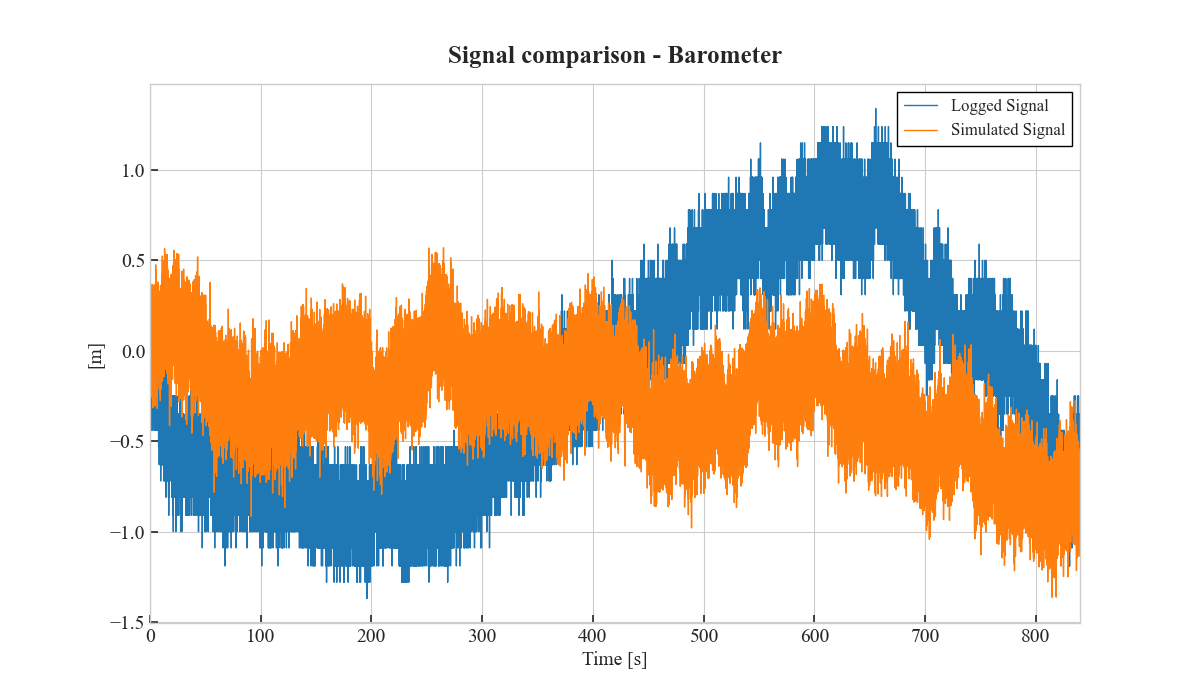
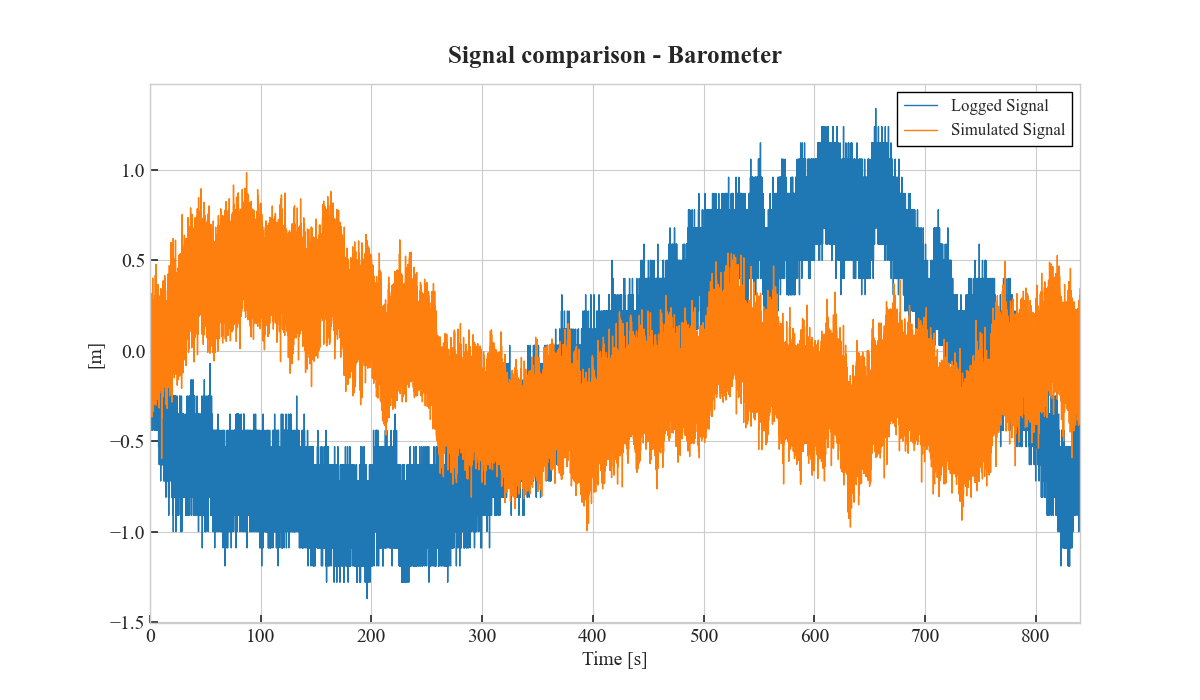
Plots correction

Changed region(s): [[0.1233, 0.27, 0.925, 0.84]]

diff --git a/CalibrationTests/test_signal_characterization.py b/CalibrationTests/test_signal_characterization.py
@@ -9,7 +9,7 @@ import numpy as np
 import BarometricAltimeterCalibrationModules.bar_altimeter_calibration as bar
 from BarometricAltimeterCalibrationModules.utils import extract_barometric_altimeter_data, show_time_data
 
-spanish = True
+spanish = False
 
 # Use synthetic data
 synthetic = False

diff --git a/BarometricAltimeterCalibrationModules/bar_altimeter_calibration.py b/BarometricAltimeterCalibrationModules/bar_altimeter_calibration.py
@@ -120,7 +120,7 @@ def auto_estimate_R_q_from_allan(
     sigma: np.ndarray, 
     fs: float,
     slope_tol: float=0.1, 
-    min_points: int=4,
+    min_points: int=2,
     plot: bool=False,
     u: Optional[str] = None,
     title: Optional[str] = None,
